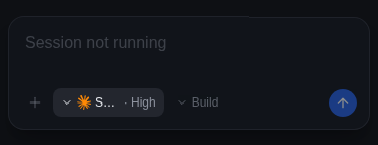
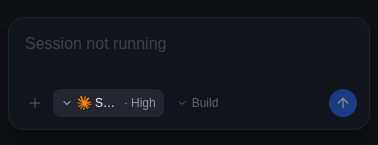
Record compose evidence with the host probe disabled

diff --git a/design/00007-compose-bar-frames.html b/design/00007-compose-bar-frames.html
@@ -502,14 +502,15 @@ mise run lint</code></pre>
           and reuse the native dock’s fade. Shared classes align the visuals while leaving each
           owner in control of its layout and interactions. A shared component could enforce the
           layout at the cost of a wider refactor. Per-file styling would recreate the duplication
-          that allowed the drift. All colours use existing tokens.
+          that allowed the drift. All colors use existing tokens.
         </li>
         <li>
           <strong>Capture conditions.</strong> Chromium on the isolated, headless
-          <code>design-00007</code> profile, with the same local fixtures, dark theme and 1× scale
-          for both passes. Baseline captures used pristine renderer sources at
-          <code>b2c91abb9</code>. The pipeline fixture was paused and the Claude tmux session was
-          stopped. The screenshots crop the composer at the stated browser viewport.
+          <code>design-00007</code> profile, with the host reachability check disabled and the same
+          local fixtures, dark theme and 1× scale for both passes. Baseline captures used pristine
+          renderer sources at <code>259e88d90</code>. The pipeline fixture was paused and the Claude
+          tmux session was stopped. The screenshots crop the composer at the stated browser
+          viewport.
         </li>
       </ul>
       <h3>What changed in each pair</h3>
